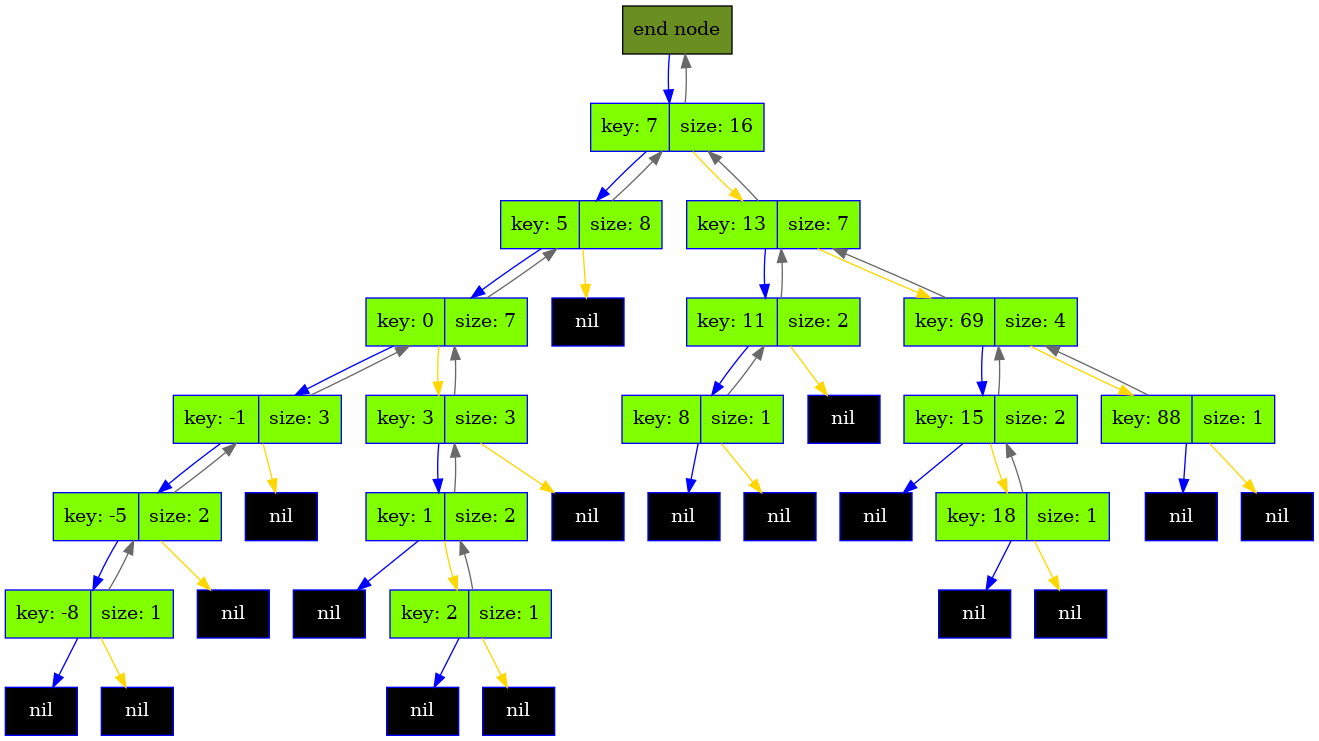
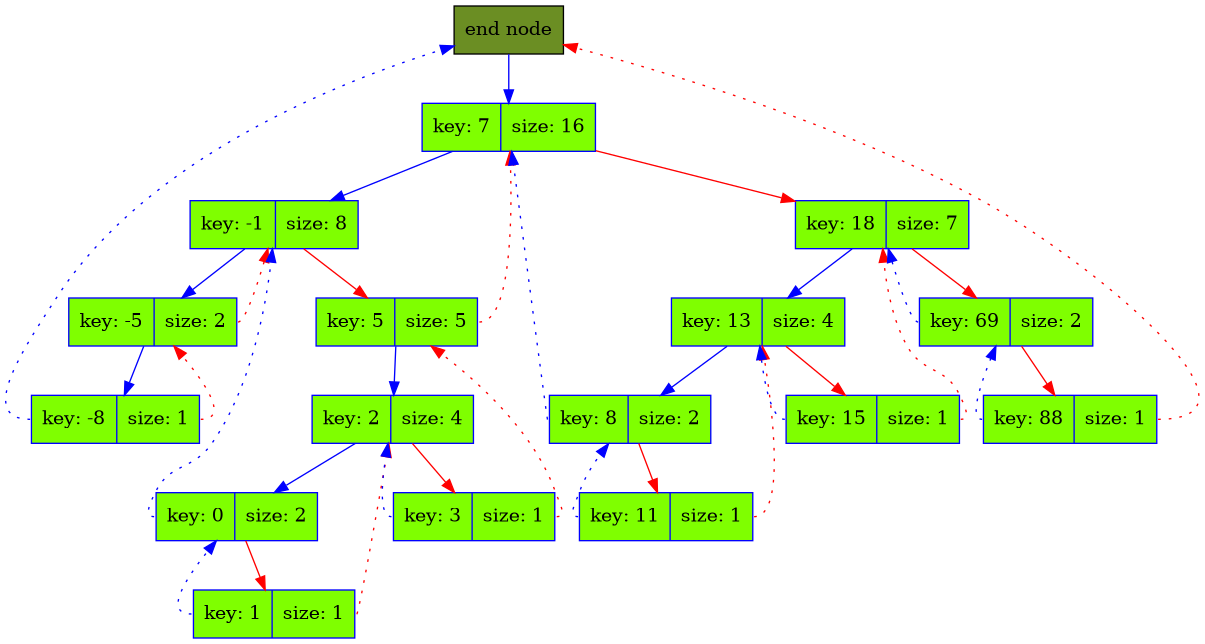
refactor graphic dump

diff --git a/include/trees/search_tree.hpp b/include/trees/search_tree.hpp
@@ -369,17 +369,14 @@ public:
               "    rankdir = TB;\n"
               "    node [shape = record];\n\n";
 
-        auto begin_node = const_base_ptr(begin());
         auto end_node = const_base_ptr(end());
 
         dot_dump(os, end_node);
+        dump_subtree(os, static_cast<const_node_ptr>(control_node_.get_root()));
 
-        for (auto node = begin_node; node != end_node; node = node->successor())
-            dot_dump(os, static_cast<const_node_ptr>(node));
+        os << '\n';
 
-        os << std::endl;
-
-        for (auto node = begin_node; node != end_node; node = node->successor())
+        for (auto node = const_base_ptr(begin()); node != end_node; node = node->successor())
             arrow_dump(os, node);
 
         if (!empty())
@@ -387,7 +384,18 @@ public:
                          reinterpret_cast<const void *>(end_node),
                          reinterpret_cast<const void *>(end_node->get_left_unsafe()));
 
-        os << "}\n";
+        os << '}' << std::endl;
+    }
+
+    void dump_subtree(std::ostream &os, const_node_ptr node) const
+    {
+        dot_dump(os, node);
+
+        if (auto left = node->get_left(); left)
+            dump_subtree(os, static_cast<const_node_ptr>(left));
+
+        if (auto right = node->get_right(); right)
+            dump_subtree(os, static_cast<const_node_ptr>(right));
     }
 
     bool subtree_sizes_verifier() const
